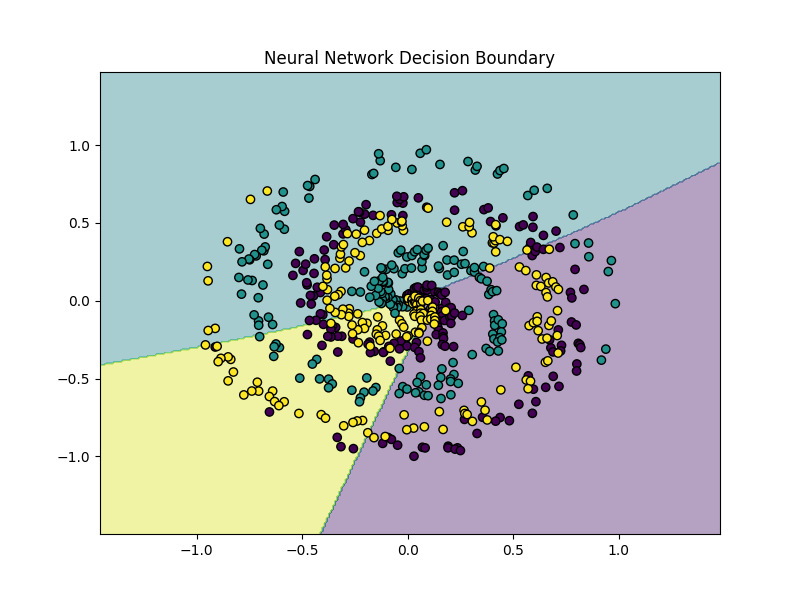
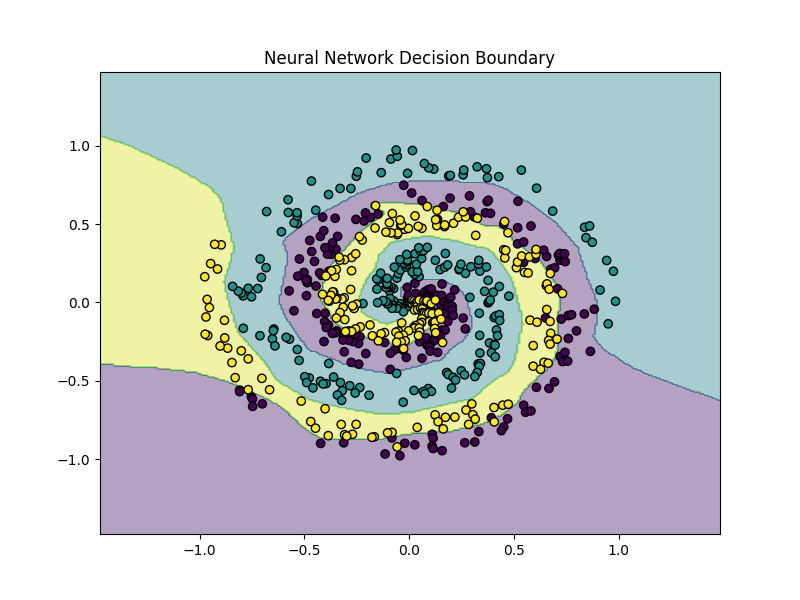
Project 4

diff --git a/01-python-foundations/project_4_neural_network/network.py b/01-python-foundations/project_4_neural_network/network.py
@@ -19,7 +19,13 @@ class NeuralNetwork:
         self.layer1 = Dense(input_size, hidden_size)
         self.activation1 = ReLU()
 
-        self.layer2 = Dense(hidden_size, output_size)
+        self.layer2 = Dense(hidden_size, 128)
+        self.activation2 = ReLU()
+
+        self.layer3 = Dense(128, 64)
+        self.activation3 = ReLU()
+
+        self.layer4 = Dense(64, output_size)
         self.softmax = Softmax()
 
         self.loss_function = CrossEntropyLoss()
@@ -29,7 +35,13 @@ class NeuralNetwork:
         activated1 = self.activation1.forward(output1)
         
         output2 = self.layer2.forward(activated1)
-        probabilities = self.softmax.forward(output2)
+        activated2 = self.activation2.forward(output2)
+
+        output3 = self.layer3.forward(activated2)
+        activated3 = self.activation3.forward(output3)
+
+        output4 = self.layer4.forward(activated3)
+        probabilities = self.softmax.forward(output4)
 
         return probabilities
 
@@ -55,16 +67,32 @@ class NeuralNetwork:
 
             # Backward pass
             grad_loss = self.loss_function.backward(predictions, y)
-            grad_layer2 = self.layer2.backward(
+            grad_layer4 = self.layer4.backward(
                 grad_loss,
                 self.learning_rate,
             )
 
-            grad_activation = self.activation1.backward(
+            grad_activation3 = self.activation3.backward(
+                grad_layer4
+            )
+            grad_layer3 = self.layer3.backward(
+                grad_activation3,
+                self.learning_rate,
+            )
+
+            grad_activation2 = self.activation2.backward(
+                grad_layer3
+            )
+            grad_layer2 = self.layer2.backward(
+                grad_activation2,
+                self.learning_rate,
+            )
+
+            grad_activation1 = self.activation1.backward(
                 grad_layer2,
             )
             self.layer1.backward(
-                grad_activation,
+                grad_activation1,
                 self.learning_rate,
             )
 

diff --git a/01-python-foundations/project_4_neural_network/main.py b/01-python-foundations/project_4_neural_network/main.py
@@ -32,9 +32,9 @@ X, y = generate_spiral_data(
 
 model = NeuralNetwork(
     input_size=2,
-    hidden_size=64,
+    hidden_size=256,
     output_size=3,
-    learning_rate=0.1,
+    learning_rate=0.2,
 )
 
 
@@ -45,7 +45,7 @@ model = NeuralNetwork(
 history = model.train(
     X,
     y,
-    epochs=1000,
+    epochs=20000,
 )
 
 

diff --git a/01-python-foundations/project_4_neural_network/README.md b/01-python-foundations/project_4_neural_network/README.md
@@ -1,5 +1,20 @@
 # README.md
 
+![Prediction](output/predictions.png)
+
+### Architecture
+- Input layer: 2 features
+- Hidden layers: 256 → 128 → 64 neurons
+- Activation function: ReLU (between all hidden layers)
+- Output layer: 3 classes
+- Output activation: Softmax (probability distribution)
+
+### Training 
+- 20,000 Epochs
+- Learning Rate: 0.2
+- Optimization: gradient descent with manual backpropagation
+- Loss function: cross-entropy
+
 # Neural Network From Scratch
 
 A beginner-friendly deep learning project that builds a fully functional neural network using only NumPy.
@@ -856,7 +871,7 @@ Deep learning is essentially this repeated cycle:
 2. Compute loss
 3. Backpropagation
 4. Compute gradients
-5. Update weights
+5. Gradient Descent (Weight Updates)
 6. Repeat
 ```
 
